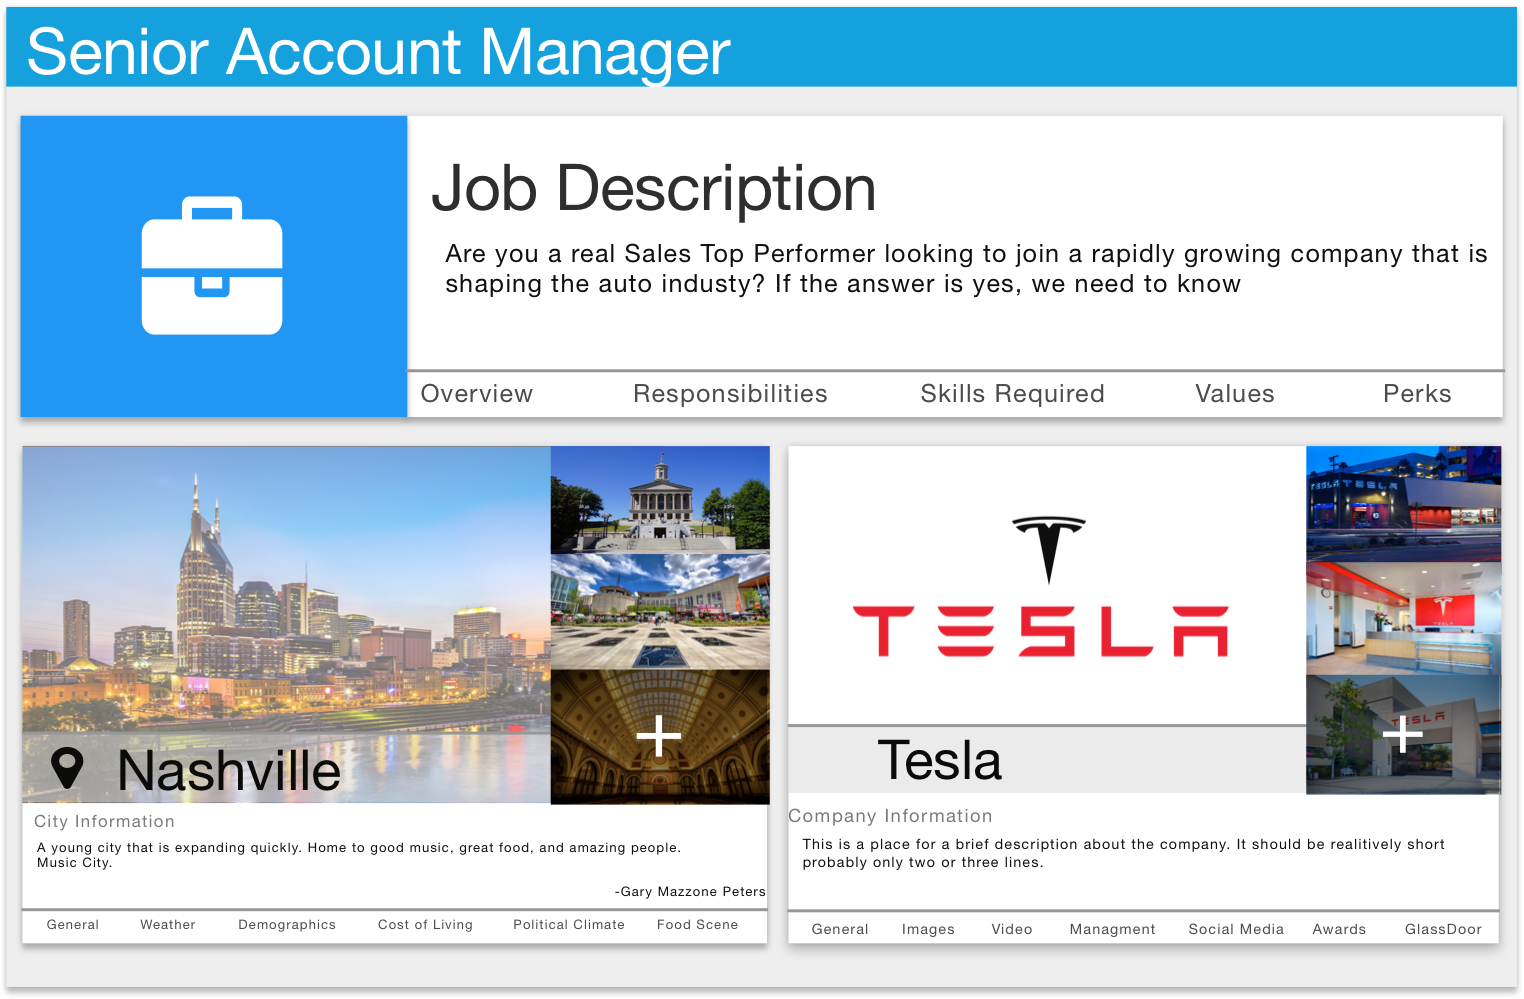
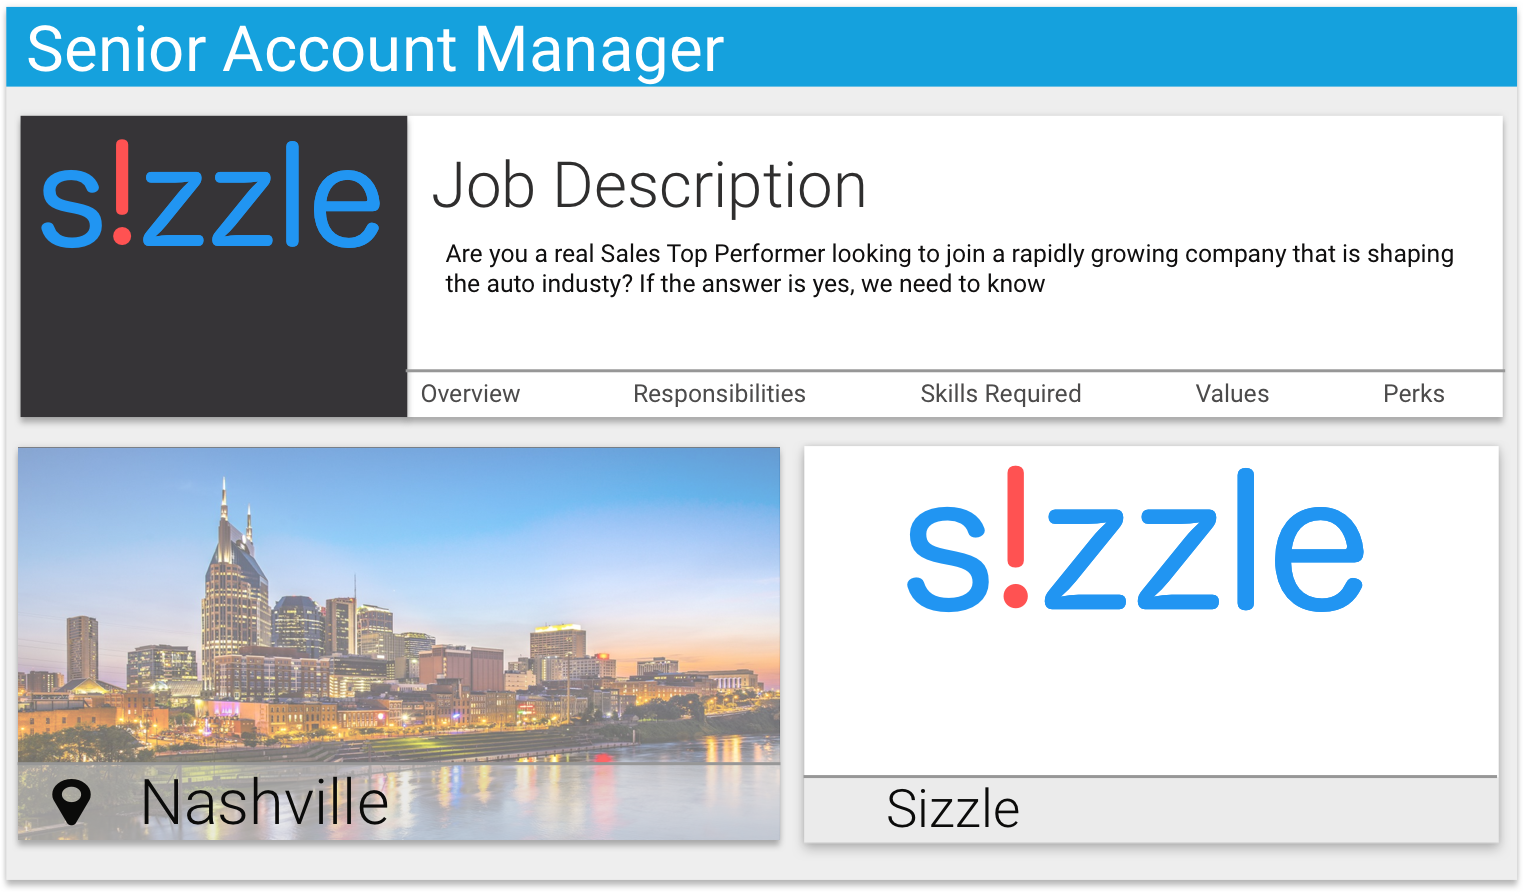
new ipad example token #667

diff --git a/lp/sizzle1.php b/lp/sizzle1.php
@@ -9,10 +9,6 @@ include __DIR__.'/../header.php';
     .white-line {
       margin-bottom: 10px;
     }
-    .show-more-btn {
-      background-color: black;
-      opacity: .3;
-    }
     #signup-call-to-action {
       margin-top: 125px;
     }
@@ -68,6 +64,18 @@ include __DIR__.'/../header.php';
     #left-div-3 {
       vertical-align: middle;
       padding-top: 50px;
+    }
+    #ipad-token-back {
+      position: relative;
+      top: 0;
+      left: 0;
+      width: 680px;
+    }
+    #ipad-token {
+      position: absolute;
+      top: 30px;
+      left: 90px;
+      width: 600px;
     }
     #put-a-bow-on-it {
       background-image: linear-gradient(90deg, rgb(4,124,39), rgb(14,206,114));
@@ -161,7 +169,7 @@ include __DIR__.'/../header.php';
             </div>
             <br />
             <h3>
-              Send engaging outbound material with Sizzle
+              Create enagaging material with Sizzle
             </h3>
             <div class="white-line">
             </div>
@@ -180,12 +188,57 @@ include __DIR__.'/../header.php';
       <div class="container">
         <div class="row">
           <div id="left-div-2" class="col-md-4 wow fadeInLeft animated" data-wow-offset="10" data-wow-duration="1.5s">
-            <h2>What is Sizzle?</h2>
-            <div class="btn show-more-btn">Show More ></div>
+            <h2>Reduced Time</h2>
+            <div class="white-line"></div>
+            With more enagaging content, recruiters will see a
+            higher conversion rate. This means that recruiters will
+            need to source and outreach to fewer candidates,
+            creating more time for other placements.
           </div>
           <div id="right-div-2" class="col-md-8 wow fadeInRight animated" data-wow-offset="10" data-wow-duration="1.5s">
             <img src="/assets/img/Env.png" alt="example token" id="sizzle-envelope"/>
             <img src="/assets/img/Horizontal_Token.png" alt="example token" id="sizzle-enveloped-token"/>
+          </div>
+        </div>
+      </div>
+    </section>
+
+    <section id="sell-the-job">
+      <div class="container">
+        <div class="row">
+          <div id="left-div-3" class="col-md-4 wow fadeInLeft animated" data-wow-offset="10" data-wow-duration="1.5s">
+            <h2>Increased Revenue</h2>
+            <div class="white-line">
+            </div>
+            Improving placement rates provides value
+            for both corporate recruiters and agency
+            recruiters. Corporate recuiters spend less
+            mean lower cost per hire. Agency recruiters
+            can make placements quicker and increase
+            business.
+          </div>
+          <div class="col-md-8 wow fadeInRight animated" data-wow-offset="10" data-wow-duration="1.5s">
+            <img src="/assets/img/ipad-back.png" alt="example token ipad" id="ipad-token-back">
+            <img src="/assets/img/ipad.png" alt="example token" id="ipad-token">
+          </div>
+        </div>
+      </div>
+    </section>
+
+    <section id="put-a-bow-on-it">
+      <div class="container">
+        <div class="row">
+          <div id="left-div-4" class="col-md-6 wow fadeInLeft animated" data-wow-offset="10" data-wow-duration="1.5s">
+            <h2>Increased Reputation</h2>
+            <div class="white-line">
+            </div>
+            Quicker, more efficient placements coupled with
+            an overall better candidate experience leads to a
+            stronger brand value, which in turn leads to new
+            customer acquisition.
+          </div>
+          <div id="right-div-4" class="col-md-6 wow fadeInRight animated" data-wow-offset="10" data-wow-duration="1.5s">
+            <img src="/assets/img/token-iphone-cropped.png" alt="fake example" width=250>
           </div>
         </div>
       </div>
@@ -196,57 +249,6 @@ include __DIR__.'/../header.php';
         <div class="row">
           <div class="col-md-12">
             <h1>Sell the <img src="/assets/img/sizzle-logo.png" alt="Sizzle" id="inline-logo"> not the Steak</h1>
-          </div>
-        </div>
-      </div>
-    </section>
-
-    <section id="sell-the-job">
-      <div class="container">
-        <div class="row">
-          <div id="left-div-3" class="col-md-4 wow fadeInLeft animated" data-wow-offset="10" data-wow-duration="1.5s">
-            <h2>Sell the Job</h2>
-            <div class="white-line">
-            </div>
-            The candidate is engaged and wants to hear
-            more about the job. It's time to combine
-            pictures, videos, text and attachments to show
-            the candidate the kind of job and company
-            that they have been searching for.
-          </div>
-          <div class="col-md-8 wow fadeInRight animated" data-wow-offset="10" data-wow-duration="1.5s">
-            <img src="/assets/img/ipad.png" alt="example token" width=600>
-          </div>
-        </div>
-      </div>
-    </section>
-
-    <section id="put-a-bow-on-it">
-      <div class="container">
-        <div class="row">
-          <div id="left-div-4" class="col-md-6 wow fadeInLeft animated" data-wow-offset="10" data-wow-duration="1.5s">
-            <h2>Put a Bow On It</h2>
-            <div class="white-line">
-            </div>
-            Candidates want personalization, not just a salary and set
-            of skills. Using our "wrapper" functionality, create a message
-            that stands out from other recruiters and other opportunities.
-          </div>
-          <div id="right-div-4" class="col-md-6 wow fadeInRight animated" data-wow-offset="10" data-wow-duration="1.5s">
-            <img src="/assets/img/token-iphone-cropped.png" alt="fake example" width=250>
-          </div>
-        </div>
-      </div>
-    </section>
-
-    <section id="live-examples">
-      <div class="container">
-        <div class="row">
-          <div class="col-md-12 wow fadeInBottom animated" data-wow-offset="10" data-wow-duration="1.5s">
-            <h2>Live Examples</h2>
-            <div class="white-line">
-            </div>
-            See Token Creations from friends of GiveToken
           </div>
         </div>
       </div>
@@ -265,7 +267,7 @@ include __DIR__.'/../header.php';
             <div class="white-line">
             </div>
             Recruiters send hundreds of messages and need a way to track
-            the success of each message. GiveToken provides an analytics
+            the success of each message. Sizzle provides an analytics
             package that allows the recruiter to see what candidates actually
             engage with.
           </div>
